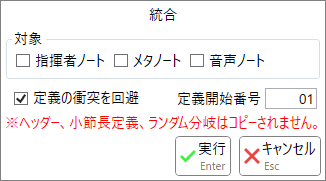
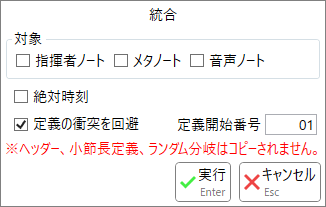
v0.7.30

Changed region(s): [[0.0, 0.4144, 1.0, 0.9945], [0.0, 0.1381, 0.9816, 0.3867], [0.4601, 0.0276, 0.5521, 0.1381]]

diff --git a/docs/history.html b/docs/history.html
@@ -10,6 +10,96 @@
         <div class="content">
             <ul>
                 <li>
+                    <details id="0_7_30">
+                        <summary class="a-like">Version 0.7.30 (2025/09/04)</summary>
+                        <ul>
+                            <li>
+                                機能追加
+                                <ul>
+                                    <li>
+                                        <a href="bms.html">BMSモード</a>において、カーソルキー<span class="script">←↓↑→</span>でスクロール及びノートの移動ができるようにしました。
+                                        <ul>
+                                            <li>
+                                                <span class="script">Shift</span>を押している場合は選択中のノートを移動します。
+                                                <ul>
+                                                    <li>
+                                                        <span class="script">Ctrl</span>を押している間、上下の移動は<b>大グリッド</b>単位になります。
+                                                    </li>
+                                                </ul>
+                                            </li>
+                                            <li>
+                                                <span class="script">Shift</span>を<b>押していない</b>場合はスクロールします。
+                                                <ul>
+                                                    <li>
+                                                        <span class="script">Ctrl</span>を押している間、上下の移動は<b>1小節</b>単位になります。
+                                                    </li>
+                                                </ul>
+                                            </li>
+                                            <li>
+                                                いずれの場合も、左右の移動は<b>レーン単位</b>で行われます。
+                                            </li>
+                                            <li>
+                                                いずれの場合も、<span class="script">Ctrl</span>を<b>押していない</b>場合、上下の移動は<b>小グリッド</b>単位になります。
+                                            </li>
+                                        </ul>
+                                    </li>
+                                </ul>
+                            </li>
+                            <li>
+                                仕様変更
+                                <ul>
+                                    <li>
+                                        <a href="bms.html">BMSモード</a>において、譜面を<span class="script">.bmson</span>として保存する際、その<span class="script">header.mode_hint</span>に記載する内容を<a href="bms_theme.html#key">テーマの演奏レーンスタイル</a>で指定するように変更しました。
+                                        <ul>
+                                            <li>
+                                                デフォルトのテーマを使っている場合は「新規」または「開く-&gt;<span class="script">default.json</span>」でテーマ設定をリロードすることで、デフォルトのmode_hint指定を適用できます。
+                                            </li>
+                                        </ul>
+                                    </li>
+                                    <li>
+                                        <a href="bms.html">BMSモード</a>において、演奏レーンのタイプが「Generic」の場合の「名前を付けて保存」のデフォルト拡張子を<span class="script">.bmg</span>に変更しました。
+                                        <ul>
+                                            <li>
+                                                これは主に24鍵のBMSのような変種譜面を<span class="script">.bms</span>とは異なる形式として保存しておくために追加された拡張子です。
+                                            </li>
+                                            <li>
+                                                24鍵BMSを正式にサポートするプレイヤーはまだ存在しないため、<b>現時点では</b>この拡張子を使用することに大きな意味はありません。
+                                            </li>
+                                            <li>
+                                                BmsMaker3を使って24鍵<span class="script">.bmson</span>を作成する場合、BmsMaker3では<span class="script">.bmson</span>を直接開けないため、一時的な保存用としてこの拡張子をご利用ください。
+                                            </li>
+                                            <li>
+                                                注: <span class="script">.bmson</span>を除いて、拡張子はBMSの内部構造に一切影響しません。拡張子は純粋に演奏レーンのスタイルを推定するためだけに利用されます。
+                                            </li>
+                                        </ul>
+                                    </li>
+                                    <li>
+                                        <a href="bms_selection.html">BMSモード/選択機能</a>において、<b style="color: #f44;">IDを指定した場合は非ID型オブジェクトが対象外となる</b>ように変更しました。
+                                    </li>
+                                    <li>
+                                        <a href="bms_merge.html">BMSモード/統合</a>において、統合する際の時間位置を絶対時刻に変更できるようにしました。
+                                    </li>
+                                    <li>
+                                        <a href="browse.html">Browseモード</a>において、ファイルを削除する場合は<b style="color: #f44;">ゴミ箱へ送らず直接削除する</b>ようにしました。
+                                    </li>
+                                </ul>
+                            </li>
+                            <li>
+                                不具合修正
+                                <ul>
+                                    <li>
+                                        <a href="bms.html">BMSモード</a>において、分解能とグリッドの設定がアプリ設定に保存されない不具合を修正しました。
+                                    </li>
+                                    <li>
+                                        <a href="bms.html">BMSモード</a>において、テンポ変化が複雑な譜面を開いている際に、ノートの波形が正しく表示されない場合がある不具合を修正しました。
+                                    </li>
+                                </ul>
+                            </li>
+                        </ul>
+                        <br>
+                    </details>
+                </li>
+                <li>
                     <details id="0_7_29">
                         <summary class="a-like">Version 0.7.29 (2025/09/02)</summary>
                         <ul>

diff --git a/docs/bms.html b/docs/bms.html
@@ -325,34 +325,62 @@
                     </ul>
                 </div>
                 <div id="quick_place">
-                    <h3>クイック配置</h3>
-                    <details>
-                        <summary>動画による説明</summary>
-                        <iframe style="width: 560px; height: 315px;" src="https://www.youtube.com/embed/zjxbJinmsOI?si=C83uWr96TTpGUuvb" title="YouTube video player" frameborder="0" allow="accelerometer; autoplay; clipboard-write; encrypted-media; gyroscope; picture-in-picture; web-share" referrerpolicy="strict-origin-when-cross-origin" allowfullscreen></iframe>
-                    </details>
+                    <h3>キーボードによる操作</h3>
                     <ul>
                         <li>
-                            <b>画面内に</b>選択中の<b>BGMノート</b>がある状態で、演奏レーンに対応するキーを押すと、選択中のBGMノートが順にそのレーンに配置されます。
-                        </li>
-                        <li>
-                            この機能を利用するには、<a href="bms_theme.html">BMSモード/テーマ設定</a>で<b>演奏レーンに対応キーを設定する</b>必要があります。
-                        </li>
-                        <li>
-                            数字キーの<span class="script">1</span>から<span class="script">0</span>を押した場合、それが演奏レーンで指定されていなければ、<b>選択中の演奏レーンのノート</b>が順に対応する<b>BGMレーン</b>に配置されます。
-                        </li>
-                        <li>
-                            <span class="script">Shift</span>キーを押している場合、<b>選択中の全てのノート</b>を対応するレーンに移動します。
+                            カーソルキー<span class="script">←↓↑→</span>を押すと、スクロールまたはノートの移動ができます。
                             <ul>
                                 <li>
-                                    この場合のみ<b>画面外のノートもまとめて移動されます</b>ので、意図せぬ移動にご注意ください。
+                                    <span class="script">Shift</span>を押している場合は選択中のノートを移動します。
+                                    <ul>
+                                        <li>
+                                            <span class="script">Ctrl</span>を押している間、上下の移動は<b>大グリッド</b>単位になります。
+                                        </li>
+                                    </ul>
                                 </li>
                                 <li>
-                                    同じタイミングのノートが複数ある場合(同時押し)は<b>全てのノートが重なった状態になる</b>ためご注意ください。
+                                    <span class="script">Shift</span>を<b>押していない</b>場合はスクロールします。
+                                    <ul>
+                                        <li>
+                                            <span class="script">Ctrl</span>を押している間、上下の移動は<b>1小節</b>単位になります。
+                                        </li>
+                                    </ul>
+                                </li>
+                                <li>
+                                    いずれの場合も、左右の移動は<b>レーン単位</b>で行われます。
+                                </li>
+                                <li>
+                                    いずれの場合も、<span class="script">Ctrl</span>を<b>押していない</b>場合、上下の移動は<b>小グリッド</b>単位になります。
                                 </li>
                             </ul>
                         </li>
                         <li>
-                            Version 0.7.6 時点では、ゲームパッド(専用コントローラー)やMIDIキーボードには対応していません。要望が多ければ検討する可能性があります。
+                            それ以外のキーを押すと、設定に応じて<b>クイック配置</b>を行います。 (<a href="https://www.youtube.com/watch?v=zjxbJinmsOI" target="_blank">動画による説明</a>)
+                            <ul>
+                                <li>
+                                    <b>画面内に</b>選択中の<b>BGMノート</b>がある状態で、演奏レーンに対応するキーを押すと、選択中のBGMノートが順にそのレーンに配置されます。
+                                </li>
+                                <li>
+                                    この機能を利用するには、<a href="bms_theme.html">BMSモード/テーマ設定</a>で<b>演奏レーンに対応キーを設定する</b>必要があります。
+                                </li>
+                                <li>
+                                    数字キーの<span class="script">1</span>から<span class="script">0</span>を押した場合、それが演奏レーンで指定されていなければ、<b>選択中の演奏レーンのノート</b>が順に対応する<b>BGMレーン</b>に配置されます。
+                                </li>
+                                <li>
+                                    <span class="script">Shift</span>キーを押している場合、<b>選択中の全てのノート</b>を対応するレーンに移動します。
+                                    <ul>
+                                        <li>
+                                            この場合は<b>画面外のノートもまとめて移動されます</b>ので、意図せぬ移動にご注意ください。
+                                        </li>
+                                        <li>
+                                            同じタイミングのノートが複数ある場合(同時押し)は<b>全てのノートが重なった状態になる</b>ためご注意ください。
+                                        </li>
+                                    </ul>
+                                </li>
+                                <li>
+                                    Version 0.7.6 時点では、ゲームパッド(専用コントローラー)やMIDIキーボードには対応していません。要望が多ければ検討する可能性があります。
+                                </li>
+                            </ul>
                         </li>
                     </ul>
                 </div>

diff --git a/docs/bms_theme.html b/docs/bms_theme.html
@@ -128,23 +128,25 @@
                 </ul>
                 要素をクリックすると説明が表示されます。
                 <div class="image-map" src="img/bms_theme_key.png" maps="
-                      7, 32,166,166, bms/theme_style_list.html, center;
-                     22,198, 24, 24, common/list_add.html;
-                     48,198, 24, 24, common/list_duplicate.html;
-                     77,198, 24, 24, common/list_moveUp.html;
-                    104,198, 24, 24, common/list_moveDown.html;
-                    134,198, 24, 24, common/list_delete.html;
-                    180, 34,170, 29, bms/theme_style_name.html;
-                    354, 34,170, 29, bms/theme_key_type.html;
-                    181, 68,341, 51, bms/theme_key_scratch.html;
-                    333,119, 24, 22, bms/theme_lane_edit.html;
-                    359,119, 24, 22, common/list_add.html;
-                    385,119, 24, 22, bms/theme_lane_add_separator.html;
-                    411,119, 24, 22, common/list_duplicate.html;
-                    441,119, 24, 22, common/list_moveUp.html;
-                    467,119, 24, 22, common/list_moveDown.html;
-                    497,119, 24, 22, common/list_delete.html;
-                    181,141,341,159, bms/theme_key_lanes.html, center;
+                      7, 32,158,166, bms/theme_style_list.html, center;
+                     19,198, 24, 24, common/list_add.html;
+                     45,198, 24, 24, common/list_duplicate.html;
+                     73,198, 24, 24, common/list_moveUp.html;
+                     98,198, 24, 24, common/list_moveDown.html;
+                    127,198, 24, 24, common/list_delete.html;
+                    173, 34,161, 29, bms/theme_style_name.html;
+                    336, 34,164, 29, bms/theme_key_type.html;
+                    173, 64, 96, 29, bms/theme_key_scratch.html;
+                    173, 96,325, 28, bms/theme_key_scratchLane.html;
+                    269, 64,230, 29, bms/theme_key_modeHint.html;
+                    309,124, 24, 22, bms/theme_lane_edit.html;
+                    335,124, 24, 22, common/list_add.html;
+                    361,119, 24, 22, bms/theme_lane_add_separator.html;
+                    387,119, 24, 22, common/list_duplicate.html;
+                    417,119, 24, 22, common/list_moveUp.html;
+                    443,119, 24, 22, common/list_moveDown.html;
+                    473,119, 24, 22, common/list_delete.html;
+                    173,146,325,154, bms/theme_key_lanes.html, center;
                     ">
                 </div>
             </div>

diff --git a/docs/bms/theme_key_type.html b/docs/bms/theme_key_type.html
@@ -10,17 +10,25 @@
                 ファイルの<b>拡張子</b>に影響する譜面タイプ。
             </li>
             <li>
-                タイプが「Popn」のスタイルを選択している場合、<br>
-                「名前を付けて保存」のデフォルト拡張子が<span class="script">.pms</span>になります。
+                「名前を付けて保存」のデフォルト拡張子が以下のように変化します。
                 <ul>
+                    <li>
+                        <b>Popn</b>: <span class="script">.pms</span>
+                    </li>
+                    <li>
+                        <b>Generic</b>: <span class="script">.bmg</span>
+                    </li>
+                    <li>
+                        それ以外: <span class="script">.bms</span>
+                    </li>
                     <li>
                         「上書き保存」の場合は拡張子は変更されません。
                     </li>
                 </ul>
             </li>
             <li>
-                <span class="script">.pms</span>ファイルを開いた場合、<br>
-                タイプが「Popn」となっているスタイルに自動的に切り替わります。
+                対応する拡張子のファイルを開いた場合、<br>
+                そのタイプが指定されているスタイルに自動的に切り替わります。
             </li>
         </ul>
     </li>

diff --git a/docs/browse.html b/docs/browse.html
@@ -90,10 +90,8 @@
                                         <img src="img/icons/Delete.png" class="icon16"><b>削除</b>: この項目を含む、選択中の全ての項目を削除します。
                                         <ul>
                                             <li>
-                                                削除は「ゴミ箱へ送る」という処理です。ゴミ箱から元に戻すことはできます。
-                                            </li>
-                                            <li>
-                                                削除処理は<b>BmsMaker3からはキャンセルできない</b>ためご注意ください。
+                                                <b style="color: #f44;">ファイルは直接削除され、ゴミ箱へ送られません。</b><br>
+                                                元に戻すことはできないのでよく注意して行なってください。
                                             </li>
                                         </ul>
                                     </li>

diff --git a/docs/bms_merge.html b/docs/bms_merge.html
@@ -35,10 +35,11 @@
                 要素をクリックすると説明が表示されます。
                 <div class="image-map" src="img/bms_merge.png" maps="
                       1, 27,324, 57, bms/merge_target.html;
-                      8, 84,138, 29, bms/merge_avoid.html;
-                    168, 84,154, 29, bms/merge_defStart.html;
-                    175,136, 56, 40, bms/merge_execute.html;
-                    239,136, 82, 40, common/cancel_restore.html;">
+                      8, 82,138, 29, bms/merge_absPos.html;
+                      8,110,138, 29, bms/merge_avoid.html;
+                    168,110,154, 29, bms/merge_defStart.html;
+                    175,162, 56, 40, bms/merge_execute.html;
+                    239,162, 82, 40, common/cancel_restore.html;">
                 </div>
             </div>
         </div>

diff --git a/docs/bms_selection.html b/docs/bms_selection.html
@@ -125,7 +125,7 @@
                                 移動
                                 <ul>
                                     <li>
-                                        数値のみを記入した場合、入力値を<b>先頭からのオフセット</b>とみなして、条件に該当する<b>全てのノートをそこへ移動</b>します。
+                                        数値のみを記入した場合、入力値を<b>先頭からの絶対時刻</b>とみなして、条件に該当する<b>全てのノートをそこへ移動</b>します。
                                         <ul>
                                             <li>
                                                 この使用法は極めて<b>非実用的</b>です。基本的には算術記号を伴って指定することになります。

diff --git a/docs/bms/theme_key_modeHint.html b/docs/bms/theme_key_modeHint.html
@@ -1,0 +1,13 @@
+<h3>モードヒント</h3>
+<ul>
+    <li>
+        この譜面を<span class="script">bmson</span>として保存する際に、<span class="script">header.mode_hint</span>に記載される内容です。
+    </li>
+    <li>
+        空欄の場合は「タイプ」の指定値と実際の使用レーン数から推定されます。
+    </li>
+    <li>
+        推定値は必ずしも<span class="script">bmson</span>として最適ではないため、<br>
+        <span class="script">bmson</span>への変換を積極的に利用する場合は<b>必ず設定してください</b>。
+    </li>
+</ul>

diff --git a/docs/browse/usedFile_delete.html b/docs/browse/usedFile_delete.html
@@ -4,9 +4,7 @@
         「削除」がチェックされている全てのファイルを削除します。
     </li>
     <li>
-        削除は「ゴミ箱へ送る」という処理です。ゴミ箱から元に戻すことはできます。
-    </li>
-    <li>
-        削除処理は<b>BmsMaker3からはキャンセルできない</b>ためご注意ください。
+        <b style="color: #f44;">ファイルは直接削除され、ゴミ箱へ送られません。</b><br>
+        元に戻すことはできないのでよく注意して行なってください。
     </li>
 </ul>

diff --git a/docs/bms/theme_key_scratchLane.html b/docs/bms/theme_key_scratchLane.html
@@ -1,10 +1,8 @@
-<h3>スクラッチレーンの有効化</h3>
+<h3>スクラッチレーン</h3>
 <ul>
-    <li>
-        チェックした場合、このスタイルに<b>スクラッチレーン</b>を適用します。
-    </li>
     <li>
         スクラッチレーンは、エディタの「スクラッチ位置」によって、<br>
         他の全てのレーンより左、または右に配置されます。
     </li>
+    <div class="common" src="bms/theme_key_common.html"></div>
 </ul>

diff --git a/docs/bms/merge_absPos.html b/docs/bms/merge_absPos.html
@@ -1,0 +1,12 @@
+<h3>絶対時刻</h3>
+<ul>
+    <li>
+        チェックした場合、統合時のノートの時間位置を<span class="script">#000:0</span>からの絶対位置で管理します。
+    </li>
+    <li>
+        チェックしないほうが処理は速くなります。
+    </li>
+    <li>
+        コピー元とコピー先とで小節長の設定が異なる場合にはチェックしてください。
+    </li>
+</ul>

diff --git a/docs/index.html b/docs/index.html
@@ -11,7 +11,7 @@
             <div class="stack">
                 <a href="https://github.com/Kuroki-Narumi/BmsMaker3-Manual/releases" target="_blank">
                     <img src="img/logo.png" style="max-width: 100%;"/><br>
-                    Version 0.7.29<br>
+                    Version 0.7.30<br>
                 </a>
                 オールインワン型BMS制作補助ツール<br>
             </div>
